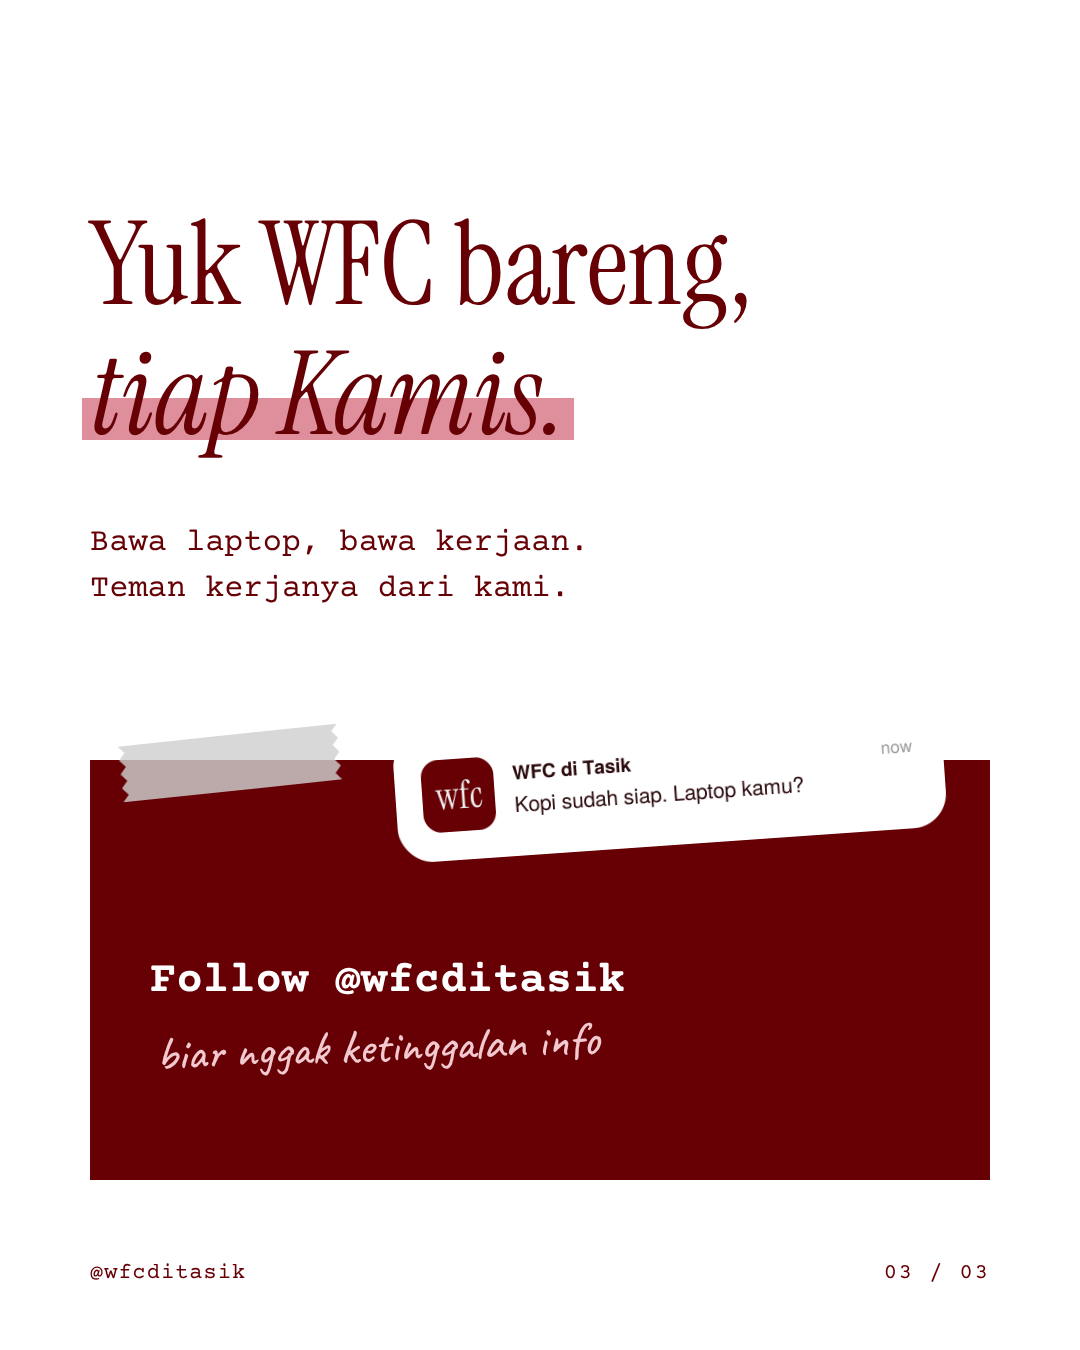
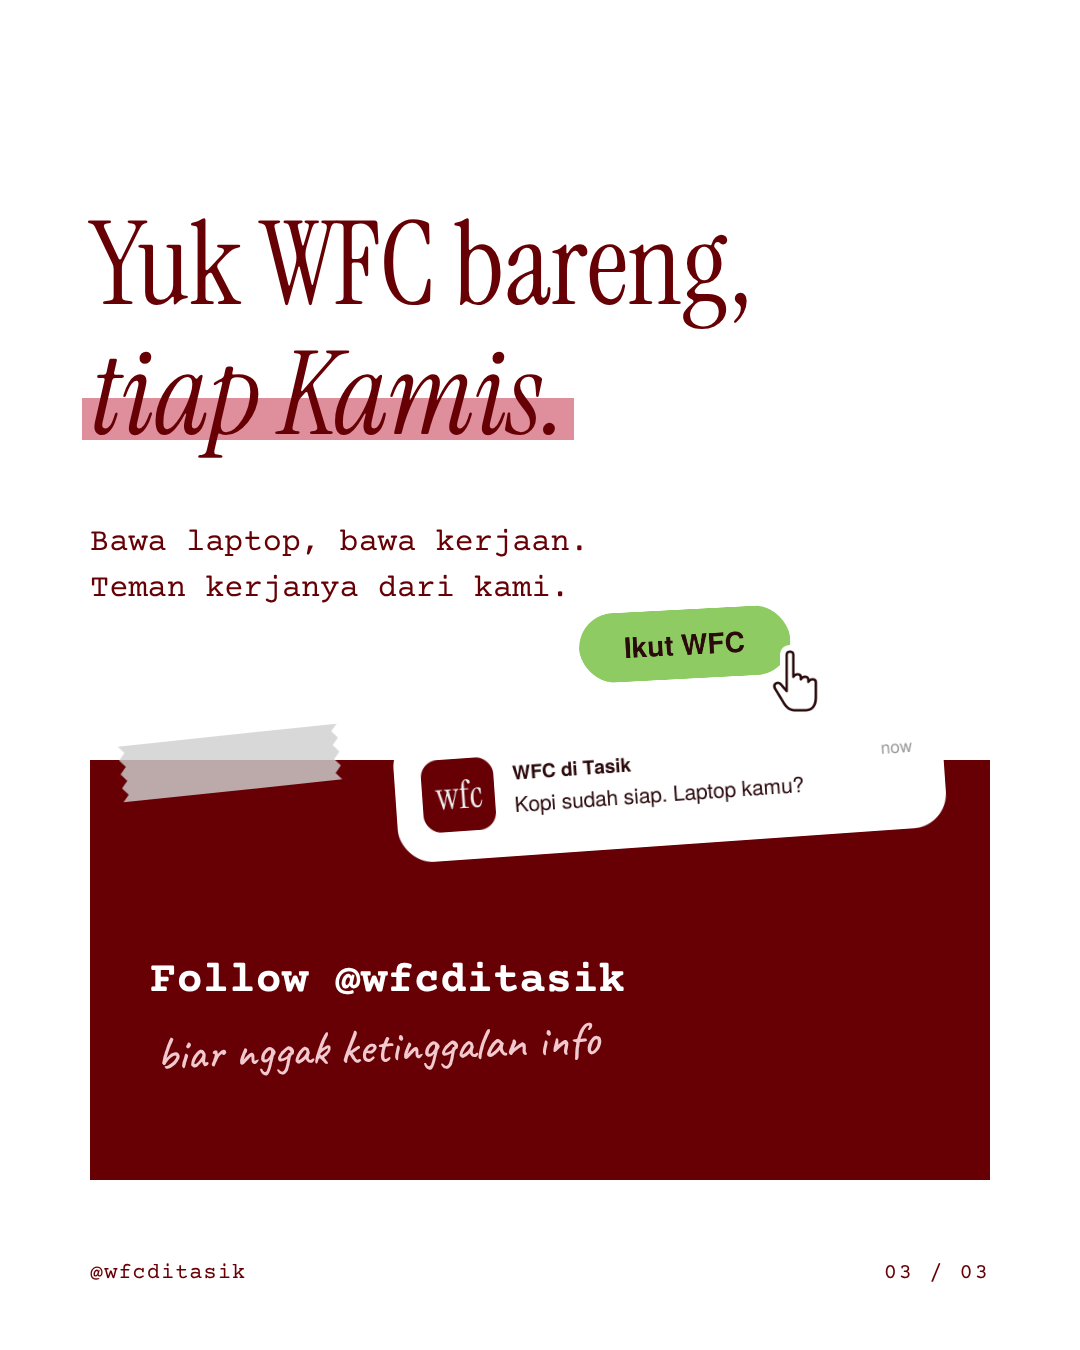
Add pop-accent UI stickers (buttons, progress, toggles, checklist, tags, cursors) with usage rules
Claude-Session: https://claude.ai/code/session_01PYAFn8ft4nKeCr1swPnjKW

Changed region(s): [[0.5194, 0.4356, 0.7639, 0.5289]]

diff --git a/tools/build_assets.py b/tools/build_assets.py
@@ -217,6 +217,112 @@ pts = " ".join(f"L{x} {random.randint(0, 14)}" for x in range(0, tw + 1, 18))
 save("paper/svg/torn-strip-gray.svg", svg(tw, 180,
      f'<g filter="url(#sh)"><path d="M0 8 {pts} L{tw} 140 L0 140Z" fill="{GRAY}"/></g>', SHADOW))
 
+# ---------------- POP ACCENT UI (tiny elements only) ----------------
+LEAF = "#8FCB63"
+DENIM = "#4D83C5"
+BRAVE = "#E0393E"
+BLOSSOM = "#F4B6C2"
+SUNNY = "#F6CB45"
+
+
+def pill_button(label, color, text="#FFFFFF", w=None):
+    w = w or (60 + len(label) * 17)
+    h = 64
+    outline = f'<rect width="{w}" height="{h}" rx="32"/>'
+    art = (f'<rect width="{w}" height="{h}" rx="32" fill="{color}"/>'
+           f'<text x="{w/2}" y="42" font-family="{SANS}" font-size="26" font-weight="bold" fill="{text}" text-anchor="middle">{label}</text>')
+    return sticker(w, h, {"outline": outline, "art": art}, pad=18)
+
+
+save("ui-accents/svg/button-follow-red.svg", pill_button("Follow", BRAVE))
+save("ui-accents/svg/button-join-green.svg", pill_button("Ikut WFC", LEAF, INK))
+save("ui-accents/svg/button-save-blue.svg", pill_button("Simpan", DENIM))
+save("ui-accents/svg/button-yes-yellow.svg", pill_button("Gas!", SUNNY, INK))
+
+
+def progress(label, pct, color, w=420):
+    h = 110
+    bw = w - 48
+    outline = f'<rect width="{w}" height="{h}" rx="18"/>'
+    art = (f'<rect width="{w}" height="{h}" rx="18" fill="{PAPER}"/>'
+           f'<text x="24" y="42" font-family="{SANS}" font-size="22" fill="{INK}">{label}</text>'
+           f'<text x="{w-24}" y="42" font-family="{SANS}" font-size="22" fill="#888888" text-anchor="end">{pct}%</text>'
+           f'<rect x="24" y="62" width="{bw}" height="18" rx="9" fill="#E3E3E3"/>'
+           f'<rect x="24" y="62" width="{bw*pct/100:.0f}" height="18" rx="9" fill="{color}"/>')
+    return sticker(w, h, {"outline": outline, "art": art}, pad=18)
+
+
+save("ui-accents/svg/progress-produktif-green.svg", progress("Produktivitas", 70, LEAF))
+save("ui-accents/svg/progress-semangat-yellow.svg", progress("Loading semangat...", 45, SUNNY))
+save("ui-accents/svg/progress-deadline-red.svg", progress("Deadline", 90, BRAVE))
+
+
+def toggle(label, color, on=True, w=360):
+    h = 84
+    kx = w - 56 if on else w - 108
+    outline = f'<rect width="{w}" height="{h}" rx="20"/>'
+    art = (f'<rect width="{w}" height="{h}" rx="20" fill="{PAPER}"/>'
+           f'<text x="24" y="52" font-family="{SANS}" font-size="24" fill="{INK}">{label}</text>'
+           f'<rect x="{w-128}" y="22" width="92" height="40" rx="20" fill="{color if on else "#D6D6D6"}"/>'
+           f'<circle cx="{kx}" cy="42" r="16" fill="#FFFFFF"/>')
+    return sticker(w, h, {"outline": outline, "art": art}, pad=18)
+
+
+save("ui-accents/svg/toggle-mode-fokus-green.svg", toggle("Mode fokus", LEAF))
+save("ui-accents/svg/toggle-notif-off.svg", toggle("Notif HP", LEAF, on=False))
+
+
+def checklist(items, color, w=420):
+    h = 40 + 56 * len(items)
+    outline = f'<rect width="{w}" height="{h}" rx="18"/>'
+    art = f'<rect width="{w}" height="{h}" rx="18" fill="{PAPER}"/>'
+    for i, (t, done) in enumerate(items):
+        y = 28 + i * 56
+        if done:
+            art += (f'<rect x="24" y="{y}" width="30" height="30" rx="7" fill="{color}"/>'
+                    f'<path d="M31 {y+15} l6 7 l11 -13" fill="none" stroke="#FFFFFF" stroke-width="4" stroke-linecap="round" stroke-linejoin="round"/>'
+                    f'<text x="72" y="{y+23}" font-family="{SANS}" font-size="24" fill="#999999" text-decoration="line-through">{t}</text>'
+                    )
+        else:
+            art += (f'<rect x="25" y="{y+1}" width="28" height="28" rx="7" fill="none" stroke="#BBBBBB" stroke-width="3"/>'
+                    f'<text x="72" y="{y+23}" font-family="{SANS}" font-size="24" fill="{INK}">{t}</text>')
+    return sticker(w, h, {"outline": outline, "art": art}, pad=18)
+
+
+save("ui-accents/svg/checklist-wfc-blue.svg", checklist([("Pesan kopi", 1), ("Cari colokan", 1), ("Kerja beneran", 0)], DENIM))
+
+
+def chip(label, bg, fg):
+    w = 36 + len(label) * 14
+    h = 44
+    outline = f'<rect width="{w}" height="{h}" rx="8"/>'
+    art = (f'<rect width="{w}" height="{h}" rx="8" fill="{bg}"/>'
+           f'<text x="{w/2}" y="30" font-family="{SANS}" font-size="22" fill="{fg}" text-anchor="middle">{label}</text>')
+    return sticker(w, h, {"outline": outline, "art": art}, pad=14)
+
+
+for label, bg, fg, name in [("WFC", "#DCE8F6", DENIM, "wfc-blue"), ("Deadline", "#FBDCDC", BRAVE, "deadline-red"),
+                            ("Santai", "#E4F3D8", "#4E8A2A", "santai-green"), ("Kopi", "#FDF1C9", "#9A7410", "kopi-yellow"),
+                            ("Fokus", "#FBE6EA", "#B8546A", "fokus-blossom")]:
+    save(f"ui-accents/svg/tag-{name}.svg", chip(label, bg, fg))
+
+
+# pointing-hand cursor
+hand = ("M18 4 Q18 0 22 0 Q26 0 26 4 V30 Q28 27 31 27 Q35 27 35 31 V33 Q37 30 40 30 Q44 30 44 34 V36 "
+        "Q46 33 49 33 Q53 33 53 37 V54 Q53 70 40 70 H28 Q20 70 15 62 L4 44 Q2 40 5 38 Q8 36 11 39 L18 47Z")
+save("ui-accents/svg/cursor-hand.svg", sticker(56, 72, {"outline": f'<path d="{hand}"/>',
+     "art": f'<path d="{hand}" fill="#FFFFFF" stroke="{INK}" stroke-width="3" stroke-linejoin="round"/>'}, pad=14), 4)
+
+# notification badge
+save("ui-accents/svg/badge-red-3.svg", sticker(56, 56, {"outline": '<circle cx="28" cy="28" r="28"/>',
+     "art": f'<circle cx="28" cy="28" r="28" fill="{BRAVE}"/><text x="28" y="38" font-family="{SANS}" font-size="28" font-weight="bold" fill="#FFFFFF" text-anchor="middle">3</text>'}, pad=12), 3)
+
+# blue arrow cursor (tiny accent)
+cur2 = "M0 0 L0 56 L14 43 L24 66 L34 61 L24 39 L42 39Z"
+save("ui-accents/svg/cursor-arrow-blue.svg", sticker(42, 66, {"outline": f'<path d="{cur2}"/>',
+     "art": f'<path d="{cur2}" fill="{DENIM}" stroke="#FFFFFF" stroke-width="3" stroke-linejoin="round"/>'}, pad=16), 4)
+
+
 # ---------------- HIGHLIGHT STYLES (reference renders) ----------------
 from PIL import ImageFont
 F = os.path.join(os.path.dirname(os.path.abspath(__file__)), "..", "fonts", "")

diff --git a/tools/build_examples.py b/tools/build_examples.py
@@ -95,7 +95,7 @@ SLIDES["A-minuman-kerjaan"] = [
       {st('paper/png/tape-gray.png', 360, 760, 200, -8, 3)}
       <div class="abs mono" style="left:340px; top:860px; width:500px; transform:rotate(3deg); font-size:40px; font-weight:700; z-index:2; text-align:center;">Follow @wfcditasik</div>
       <div class="abs hand" style="left:340px; top:925px; width:500px; transform:rotate(3deg); font-size:40px; color:var(--red); z-index:2; text-align:center;">biar ada temen kerja</div>
-      {st('ui-stickers/png/cursor-arrow.png', 790, 940, 90, -10, 4)}
+      {st('ui-accents/png/cursor-arrow-blue.png', 790, 940, 90, -10, 4)}
       {foot(3, 'var(--pinksoft)')}
     </div>""",
 ]
@@ -107,7 +107,7 @@ SLIDES["B-wfc-beneran-kerja"] = [
       {st('ui-stickers/png/copy-select-bar.png', 60, 300, 420, 0, 3)}
       <div class="serif abs" style="left:96px; top:420px; width:920px; font-size:150px;"><span class="sel pk"><span class="h l"></span><i>Beneran</i><span class="h r"></span></span> kerja,<br>bukan cuma WFC.</div>
       <div class="hand abs" style="left:96px; top:850px; font-size:56px; transform:rotate(-3deg); color:var(--red);">(alias pindah tempat scroll)</div>
-      {st('ui-stickers/png/status-wifi-battery.png', 640, 1020, 340, 5, 2)}
+      {st('ui-accents/png/toggle-mode-fokus-green.png', 560, 1010, 400, 4, 2)}
       {foot(1)}
     </div>""",
     # B2 content: pink stripes, lined note with 3 rules
@@ -164,6 +164,8 @@ SLIDES["C-sendiri-vs-bareng"] = [
     f"""<div class="slide" style="{bg('solid-white')}">
       <div class="serif abs" style="left:90px; top:200px; width:900px; font-size:116px;">Yuk WFC bareng,<br><span class="mk pk"><i>tiap Kamis.</i></span></div>
       <div class="mono abs" style="left:90px; top:520px; width:620px; font-size:32px;">Bawa laptop, bawa kerjaan.<br>Teman kerjanya dari kami.</div>
+      {st('ui-accents/png/button-join-green.png', 560, 590, 250, -3, 3)}
+      {st('ui-accents/png/cursor-hand.png', 760, 640, 70, 0, 4)}
       <div class="abs" style="left:90px; top:760px; width:900px; height:420px; background:var(--red);"></div>
       {st('ui-stickers/png/notification-pill.png', 380, 700, 580, -4, 2)}
       {st('paper/png/tape-gray.png', 120, 735, 220, -6, 3)}

diff --git a/style-guide.md b/style-guide.md
@@ -22,8 +22,26 @@ Contrast with Blood Red text: on white 13.6:1, on gray 11.9:1, on pink soft 9.0:
 ### Pink rules (not too feminine)
 1. **Blood Red leads.** Gray and white are the base. Pink is only for highlights and small details.
 2. **Pink is never a background.** No pink checker, pink stripes, pink cards or big pink blocks.
-3. **No yellow, no green** anywhere.
+3. **No yellow or green in the base palette** (backgrounds, highlights, text). They exist only as tiny pop accents (see below).
 4. Handwritten notes are Blood Red (white or pink soft on red slides).
+
+### Pop accents (tiny UI elements only)
+
+Notion/phone-style bits that make a slide feel alive: buttons, progress bars, toggles, checkboxes, tags, cursors, badges (`ui-accents/`).
+
+| Name | Hex |
+|---|---|
+| Leaf green | `#8FCB63` |
+| Denim blue | `#4D83C5` |
+| Brave red | `#E0393E` |
+| Cherry blossom | `#F4B6C2` |
+| Sunny yellow | `#F6CB45` |
+
+Rules:
+1. Only on small UI elements. Never as backgrounds, text highlights, headings or body text.
+2. Max 1 to 2 pop-accent elements per slide, and max 2 different pop colors per slide.
+3. Each element stays small (roughly a button or tag size). Blood Red must still clearly lead the slide.
+4. Not every slide needs one. Use them where a "UI moment" fits the copy (a toggle for "mode fokus", a progress bar for "deadline", a button for the CTA).
 
 Text rule: Blood Red text on gray or white. Never Blood Red text directly on a checker or stripes; put it on a white paper scrap first. On a solid Blood Red slide, use white text with pink-soft accents.
 

diff --git a/README.md b/README.md
@@ -6,6 +6,7 @@ Assets and rules for the WFCditasik weekly Instagram carousel.
 - `fonts/`: Instrument Serif, Courier Prime, Caveat (free, OFL)
 - `backgrounds/`: 1080 × 1350 backgrounds (SVG + PNG)
 - `ui-stickers/`: original phone/laptop UI stickers in Blood Red, cool gray and white (pink only as a small accent)
+- `ui-accents/`: tiny pop-accent UI bits (buttons, progress bars, toggles, checklist, tags, cursors, badge)
 - `paper/`: washi tape, notes, torn paper
 - `highlights/`: reference render of the two highlight styles
 - `photo-stickers/`: your own cut-out photos from WFC sessions
